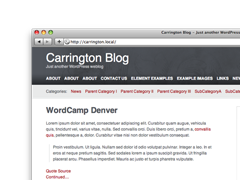
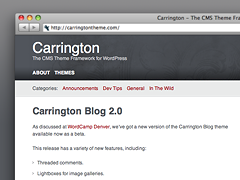
re-org some functions, new screenshot

diff --git a/blog/trunk/functions.php b/blog/trunk/functions.php
@@ -253,23 +253,6 @@ a:visited {
 
 }
 
-function cfct_get_custom_colors($type = 'option') {
-	global $cfct_color_options;
-	$colors = array();
-	foreach ($cfct_color_options as $option => $value) {
-		switch ($type) {
-			case 'preview':
-				!empty($_GET[$option]) ? $colors[$option] = strip_tags(stripslashes($_GET[$option])) : $colors[$option] = '';
-				break;
-			case 'option':
-			default:
-				$colors[$option] = cfct_get_option($option);
-				break;
-		}
-	}
-	return $colors;
-}
-
 include_once(CFCT_PATH.'functions/admin.php');
 include_once(CFCT_PATH.'functions/sidebars.php');
 
